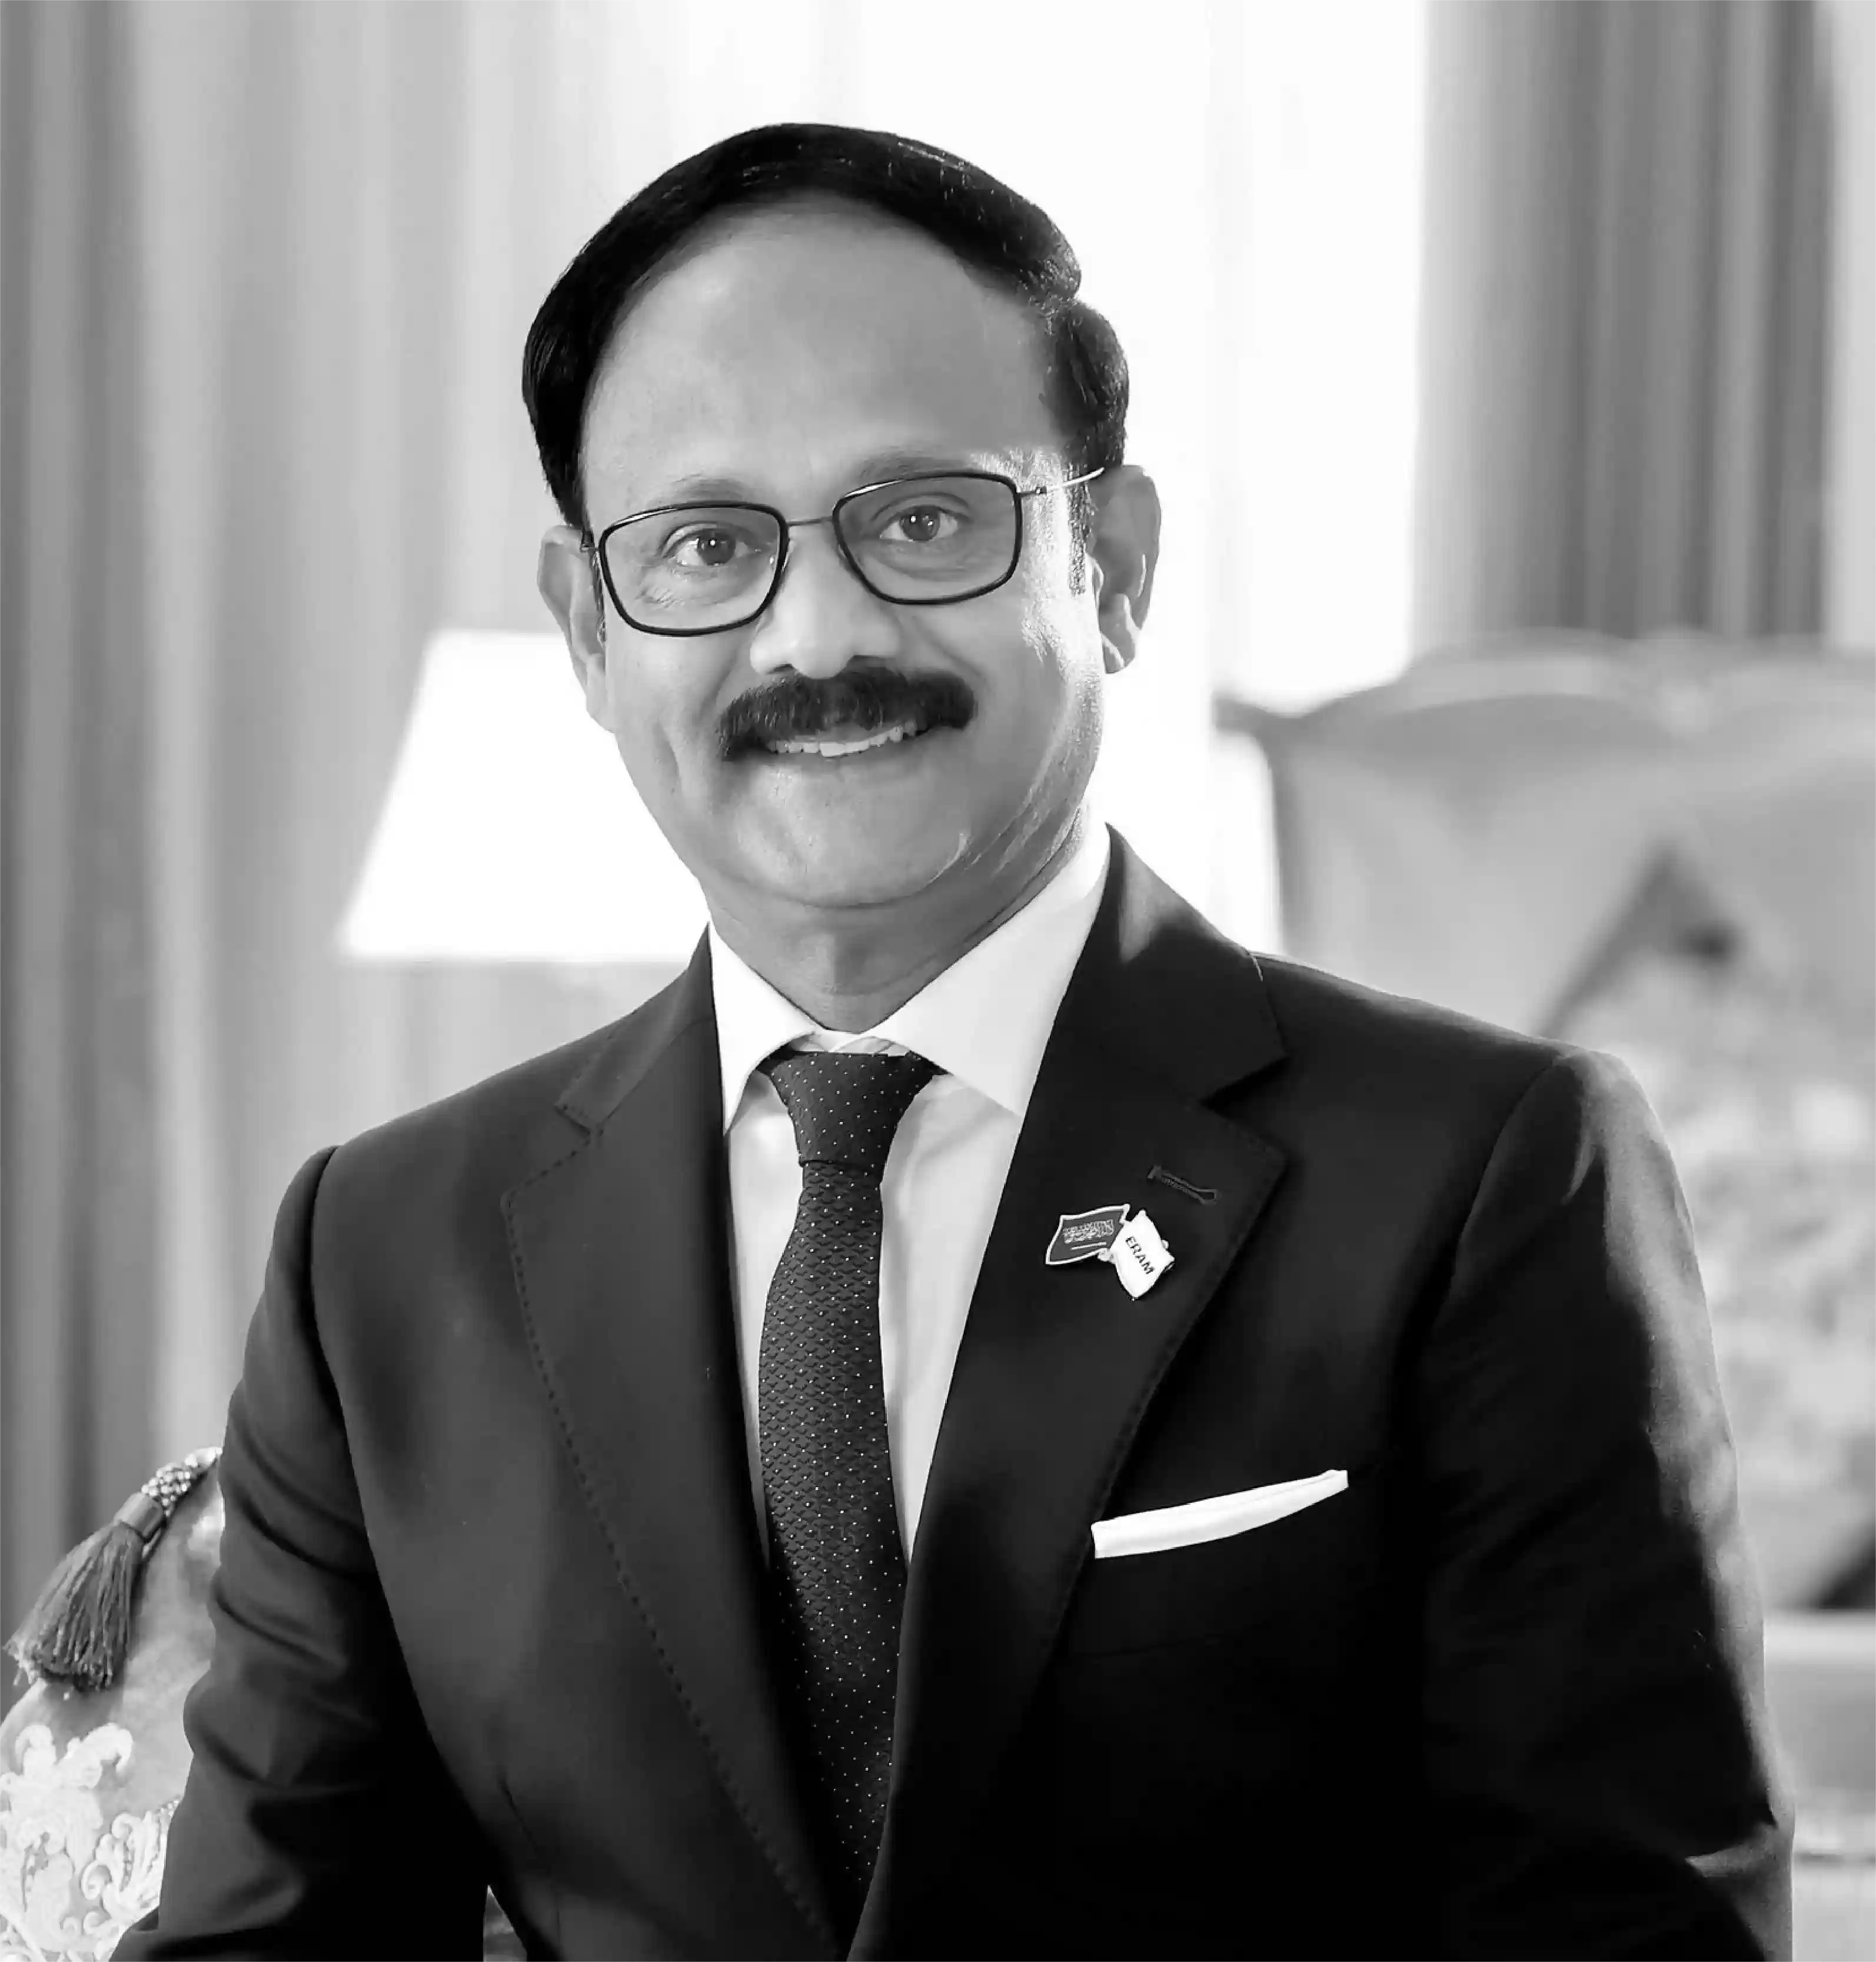
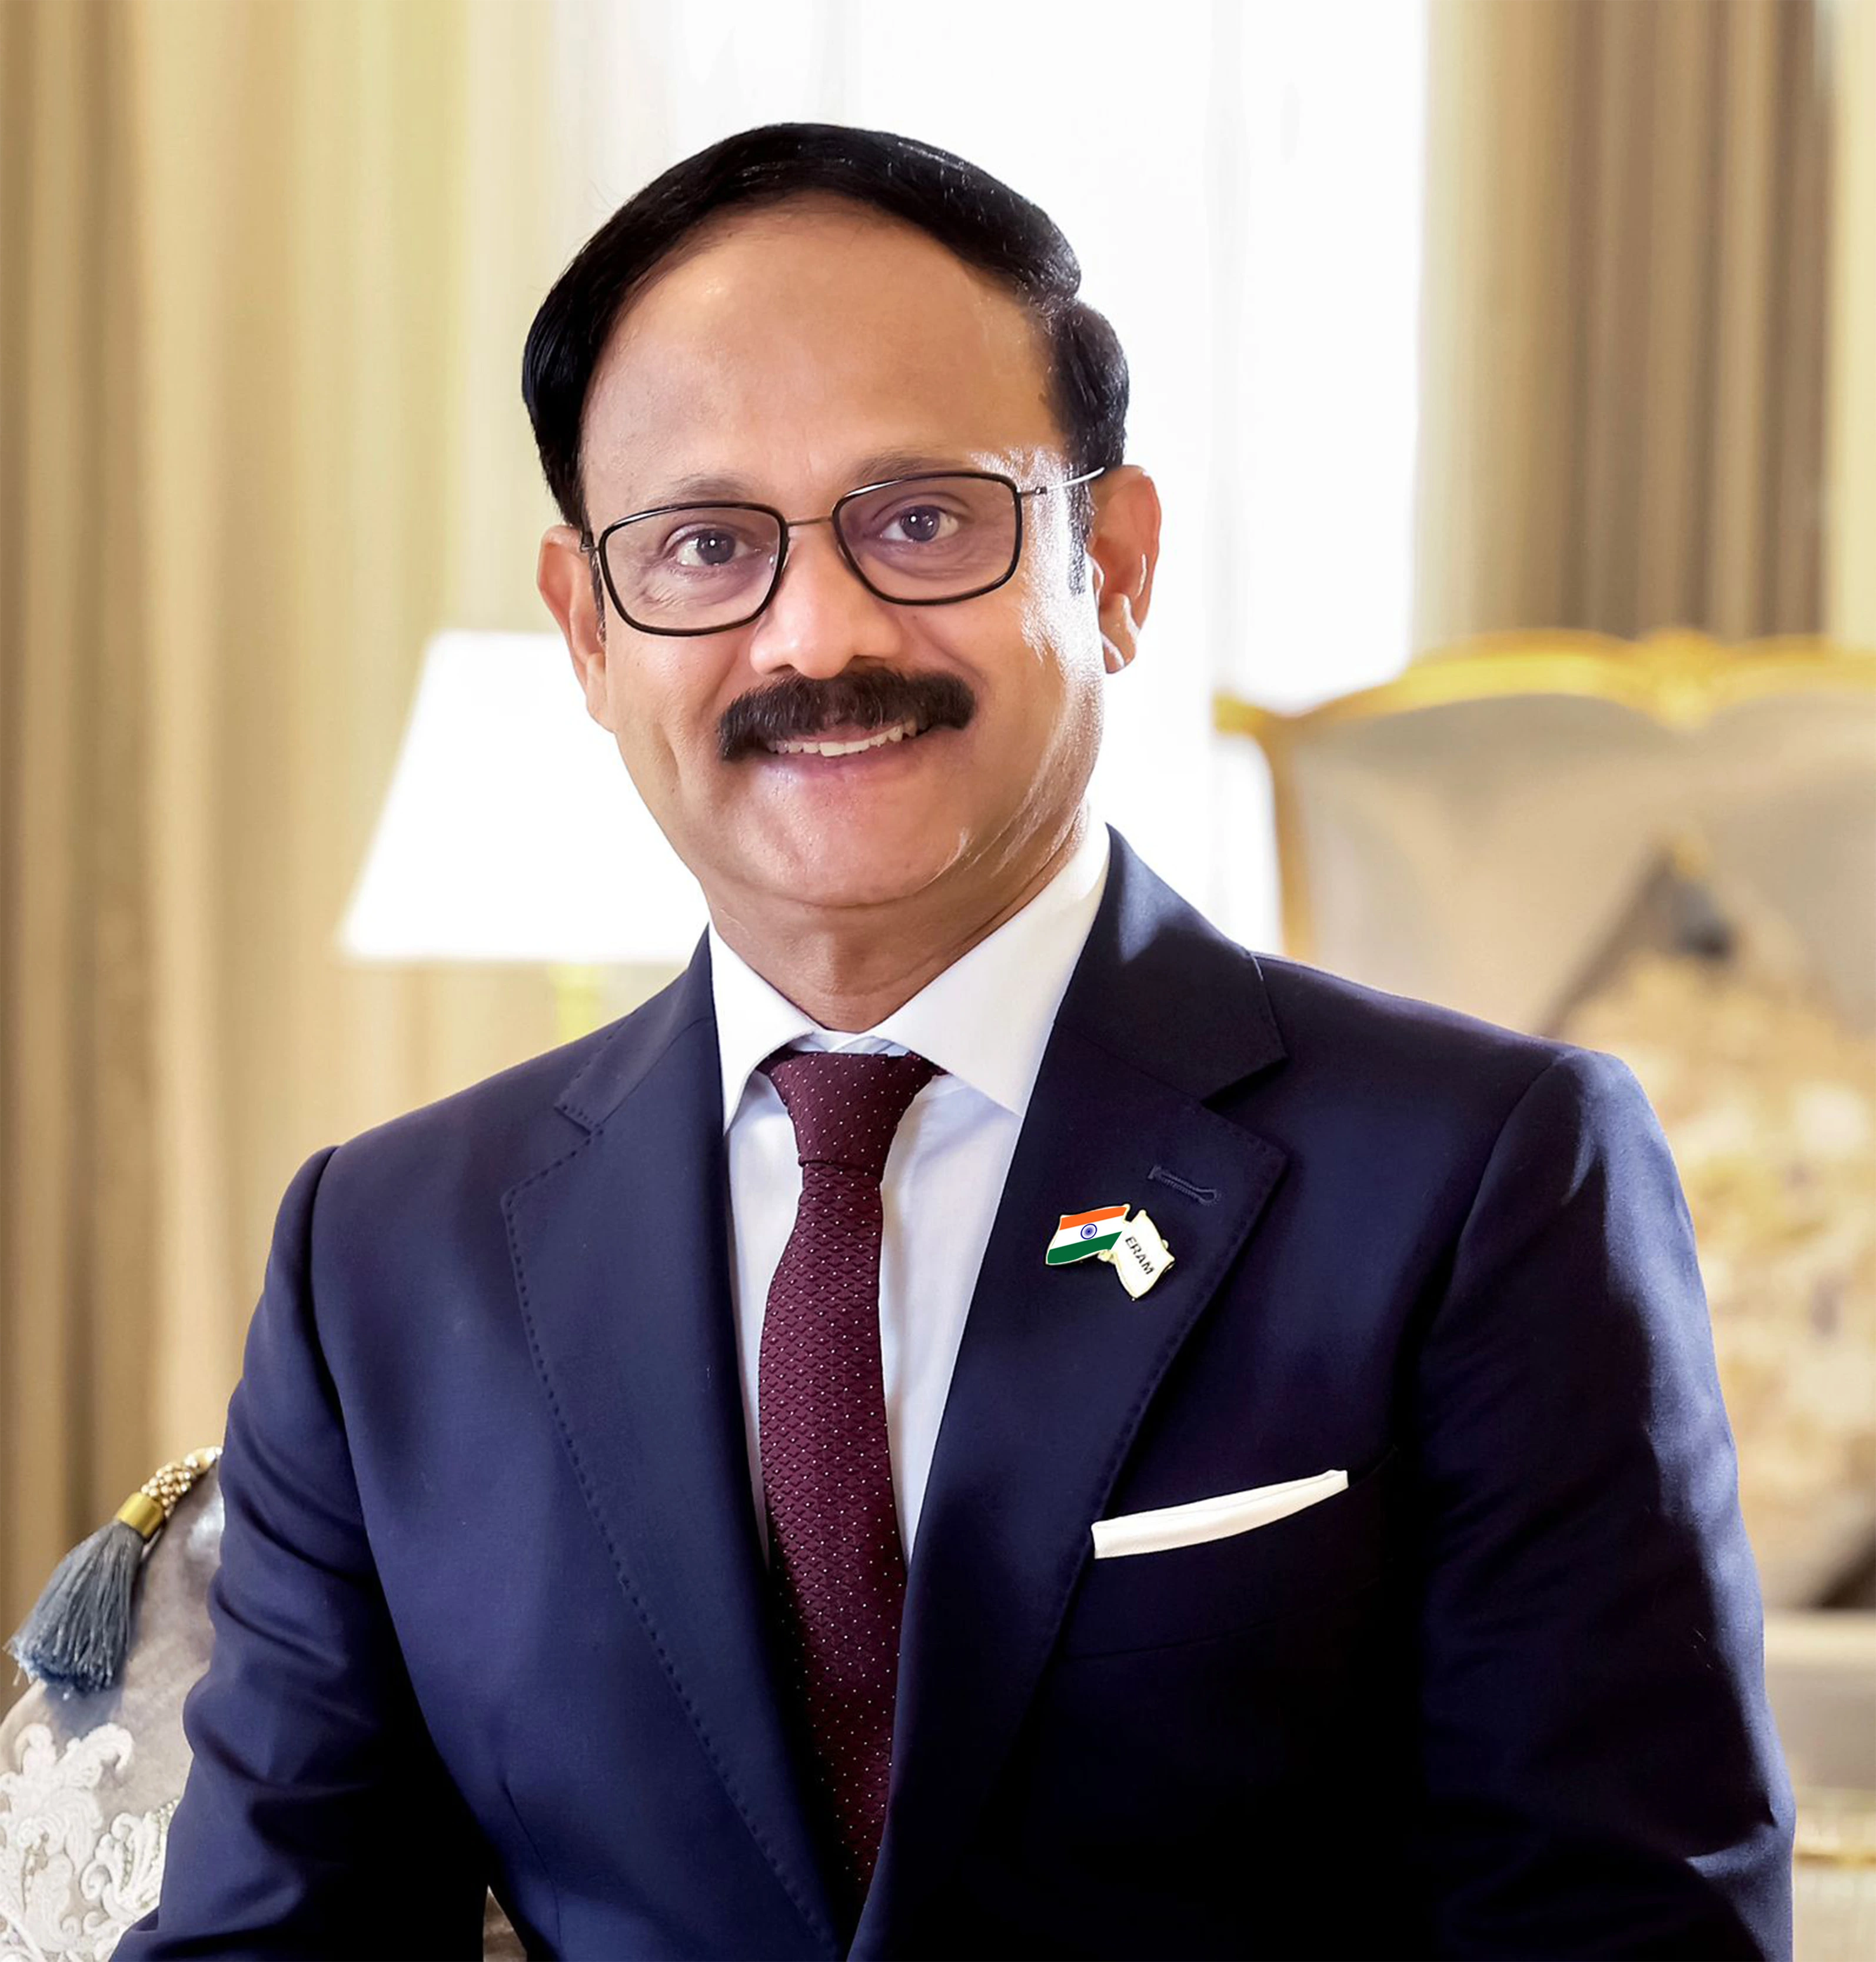
about persons image changed

diff --git a/src/components/sections/about/StructuredLearningSection.jsx b/src/components/sections/about/StructuredLearningSection.jsx
@@ -221,7 +221,7 @@ function StructuredLearningSection() {
                   <OptimizedImage
                     src={person.src}
                     alt={person.alt}
-                    className={`w-full h-full object-cover grayscale block ${person.objPos} transition-opacity duration-500 ease-in-out group-hover:opacity-45`}
+                    className={`w-full h-full object-cover block ${person.objPos} transition-opacity duration-500 ease-in-out group-hover:opacity-45`}
                     sizes="(max-width: 768px) 100vw, 460px"
                     disableTransition
                   />

diff --git a/src/constants/homeData.js b/src/constants/homeData.js
@@ -2,7 +2,7 @@ export const navItems = [
   { label: "About Us", path: "/about-us" },
   { label: "The Trust", path: "/the-trust" },
   { label: "Institutions", path: "#institutions" },
-  { label: "Sports Arena", path: "#arena" },
+  { label: "Sports Arena", path: "/explore-arena" },
   { label: "Contact", path: "/gallery" },
 ];
 

diff --git a/src/components/layout/Navbar.jsx b/src/components/layout/Navbar.jsx
@@ -26,6 +26,7 @@ const navLinkClassName = `
   tracking-[0.04em]
   transition-colors
   duration-200
+  cursor-pointer
   whitespace-nowrap
   ${textColor}
 `;